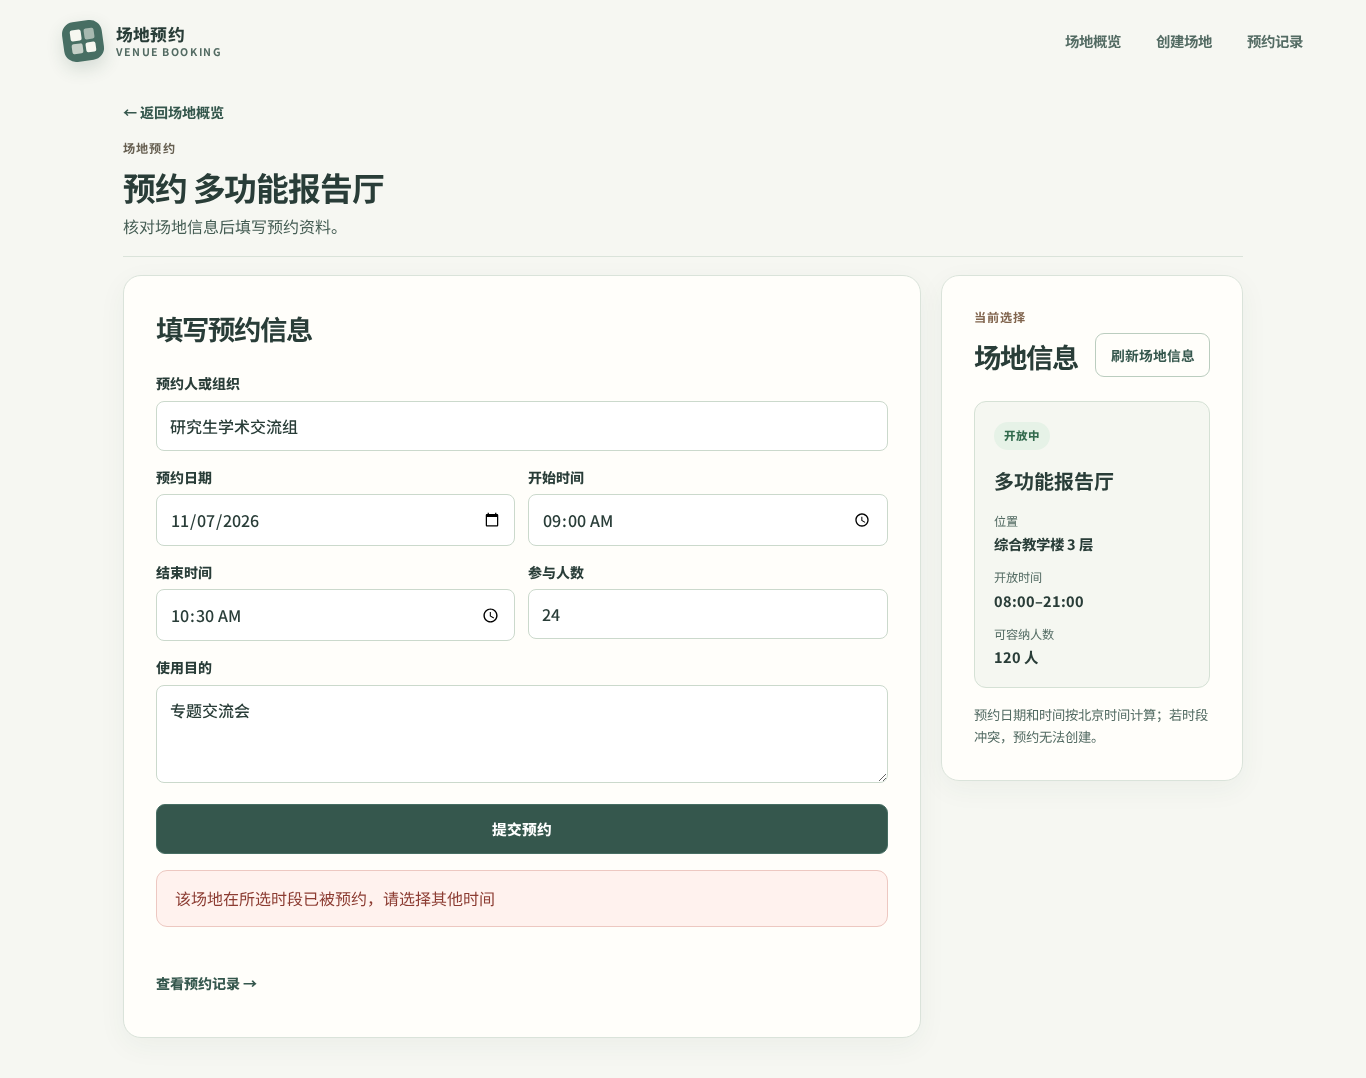
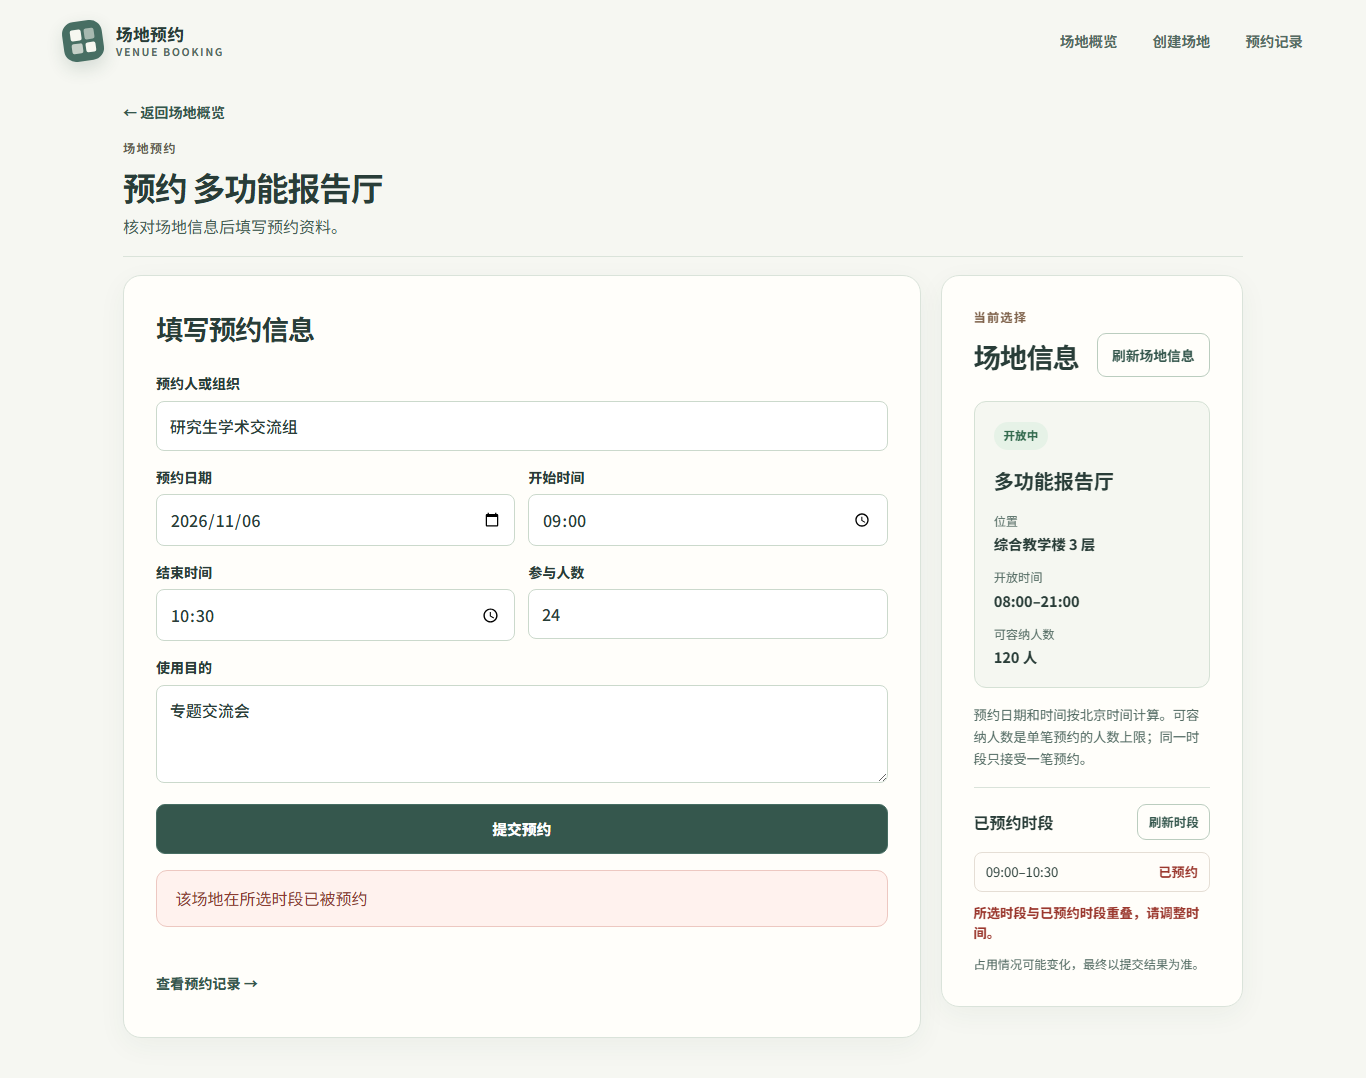
feat: 显示场地已预约时段与约满提示

diff --git a/frontend/src/pages/BookingPage.tsx b/frontend/src/pages/BookingPage.tsx
@@ -1,3 +1,7 @@
+import { useEffect, useState } from 'react'
+import { bookedSlotsForDate, isFullyBooked, overlapsBookedSlot } from '../availability'
+import type { BookedSlot } from '../availability'
+import { bookingApi } from '../api/booking'
 import { ActionFeedback } from '../components/ActionFeedback'
 import { ReservationForm } from '../components/ReservationForm'
 import type { ReservationDraft } from '../reservationDraft'
@@ -17,6 +21,48 @@ interface BookingPageProps {
 }
 
 export function BookingPage({ venue, draft, onDraftChange, loadingVenues, venueError, isSubmitting, actionError, successMessage, onRefreshVenues, onCreate }: BookingPageProps) {
+  const [snapshot, setSnapshot] = useState<{ venueId: number; date: string; slots: BookedSlot[] } | null>(null)
+  const [loadingSlots, setLoadingSlots] = useState(false)
+  const [slotError, setSlotError] = useState(false)
+  const [slotReloadKey, setSlotReloadKey] = useState(0)
+  const date = draft.reservationDate
+
+  useEffect(() => {
+    if (!venue || venue.status !== 'OPEN' || !date) {
+      setSnapshot(null)
+      setLoadingSlots(false)
+      setSlotError(false)
+      return
+    }
+
+    let active = true
+    const venueId = venue.id
+    setSnapshot(null)
+    setLoadingSlots(true)
+    setSlotError(false)
+    bookingApi.listReservations()
+      .then((reservations) => {
+        if (active) setSnapshot({ venueId, date, slots: bookedSlotsForDate(reservations, venueId, date) })
+      })
+      .catch(() => {
+        if (active) setSlotError(true)
+      })
+      .finally(() => {
+        if (active) setLoadingSlots(false)
+      })
+    return () => { active = false }
+  }, [venue?.id, venue?.status, date, slotReloadKey])
+
+  const slots = snapshot?.venueId === venue?.id && snapshot?.date === date ? snapshot.slots : null
+  const fullyBooked = Boolean(venue && slots && isFullyBooked(slots, venue.open_time, venue.close_time))
+  const selectedSlotBooked = slots ? overlapsBookedSlot(slots, draft.startTime, draft.endTime) : false
+
+  async function handleCreate(input: CreateReservationInput): Promise<boolean> {
+    const created = await onCreate(input)
+    if (!created) setSlotReloadKey((current) => current + 1)
+    return created
+  }
+
   return (
     <div className="booking-page">
       <div className="subpage-banner">
@@ -48,7 +94,42 @@ export function BookingPage({ venue, draft, onDraftChange, loadingVenues, venueE
             </div>
           ) : loadingVenues ? <p className="empty-state">正在加载场地信息…</p> : null}
           {venueError && <p role="alert" className="notice error aside-error">{venueError}</p>}
-          <p className="booking-aside-note">预约日期和时间按北京时间计算；若时段冲突，预约无法创建。</p>
+          <p className="booking-aside-note">预约日期和时间按北京时间计算。可容纳人数是单笔预约的人数上限；同一时段只接受一笔预约。</p>
+          {venue?.status === 'OPEN' && (
+            <section className="booking-availability" aria-labelledby="booking-availability-heading">
+              <div className="booking-availability-heading">
+                <h3 id="booking-availability-heading">已预约时段</h3>
+                {date && (
+                  <button type="button" className="secondary" disabled={loadingSlots} onClick={() => setSlotReloadKey((current) => current + 1)}>
+                    刷新时段
+                  </button>
+                )}
+              </div>
+              {!date ? (
+                <p>选择预约日期后查看该场地的占用时段。</p>
+              ) : loadingSlots ? (
+                <p role="status">正在查询已预约时段…</p>
+              ) : slotError ? (
+                <p>暂时无法查询已预约时段，请刷新重试；仍可提交预约，由后端确认。</p>
+              ) : slots ? (
+                <>
+                  {fullyBooked ? <p className="booking-availability-full">该日期开放时段已约满。</p>
+                    : slots.length === 0 ? <p>该日期暂无已预约时段。</p> : null}
+                  {slots.length > 0 && (
+                    <ul className="booked-slots">
+                      {slots.map((slot, index) => (
+                        <li key={`${slot.startTime}-${slot.endTime}-${index}`}>
+                          <span>{slot.startTime}–{slot.endTime}</span><span>已预约</span>
+                        </li>
+                      ))}
+                    </ul>
+                  )}
+                  {selectedSlotBooked && <p className="booking-availability-conflict" role="status">所选时段与已预约时段重叠，请调整时间。</p>}
+                  <p className="booking-availability-note">占用情况可能变化，最终以提交结果为准。</p>
+                </>
+              ) : null}
+            </section>
+          )}
         </aside>
 
         <section className="panel booking-panel" aria-labelledby="booking-heading">
@@ -67,7 +148,7 @@ export function BookingPage({ venue, draft, onDraftChange, loadingVenues, venueE
                 onDraftChange={onDraftChange}
                 isSubmitting={isSubmitting}
                 isUnavailable={loadingVenues || Boolean(venueError)}
-                onCreate={onCreate}
+                onCreate={handleCreate}
               />
             </>
           ) : loadingVenues ? (

diff --git a/frontend/src/App.test.tsx b/frontend/src/App.test.tsx
@@ -55,6 +55,86 @@ afterEach(() => {
 })
 
 describe('场地预约页面', () => {
+  it('按日期显示已预约时段，提示重叠但允许相邻时段', async () => {
+    const user = userEvent.setup()
+    const cancelled = {
+      ...reservation,
+      id: 13,
+      start_time: '11:00',
+      end_time: '12:00',
+      status: 'CANCELLED',
+      cancelled_at: '2030-10-01T11:00:00+08:00',
+    }
+    vi.stubGlobal('fetch', vi.fn(async (input: RequestInfo | URL) => {
+      if (String(input) === '/api/venues') return json([venue])
+      if (String(input) === '/api/reservations') return json([reservation, cancelled])
+      throw new Error(`Unexpected request: ${String(input)}`)
+    }))
+
+    render(<App />)
+    const form = await screen.findByRole('form', { name: '创建预约' })
+    await user.type(within(form).getByLabelText('预约日期'), '2030-10-30')
+    expect(await screen.findByText('10:00–11:00')).toBeInTheDocument()
+    expect(screen.queryByText('11:00–12:00')).not.toBeInTheDocument()
+
+    await user.type(within(form).getByLabelText('开始时间'), '10:30')
+    await user.type(within(form).getByLabelText('结束时间'), '11:30')
+    expect(screen.getByText('所选时段与已预约时段重叠，请调整时间。')).toBeInTheDocument()
+    expect(within(form).getByRole('button', { name: '提交预约' })).toBeEnabled()
+
+    await user.clear(within(form).getByLabelText('开始时间'))
+    await user.type(within(form).getByLabelText('开始时间'), '11:00')
+    expect(screen.queryByText('所选时段与已预约时段重叠，请调整时间。')).not.toBeInTheDocument()
+  })
+
+  it('整段开放时间被预约时显示已约满；查询失败仍可由后端判定预约', async () => {
+    const user = userEvent.setup()
+    let listCalls = 0
+    vi.stubGlobal('fetch', vi.fn(async (input: RequestInfo | URL) => {
+      if (String(input) === '/api/venues') return json([venue])
+      if (String(input) === '/api/reservations') {
+        listCalls += 1
+        if (listCalls === 2) throw new Error('查询失败')
+        return json(listCalls === 3 ? [{ ...reservation, start_time: '08:00', end_time: '22:00' }] : [])
+      }
+      throw new Error(`Unexpected request: ${String(input)}`)
+    }))
+
+    render(<App />)
+    const form = await screen.findByRole('form', { name: '创建预约' })
+    await user.type(within(form).getByLabelText('预约日期'), '2030-10-30')
+    expect(await screen.findByText('暂时无法查询已预约时段，请刷新重试；仍可提交预约，由后端确认。')).toBeInTheDocument()
+    expect(within(form).getByRole('button', { name: '提交预约' })).toBeEnabled()
+    await user.click(screen.getByRole('button', { name: '刷新时段' }))
+    expect(await screen.findByText('该日期开放时段已约满。')).toBeInTheDocument()
+  })
+
+  it('切换日期后忽略先前日期晚到的占用结果', async () => {
+    let resolveOld!: (response: Response) => void
+    const oldList = new Promise<Response>((resolve) => { resolveOld = resolve })
+    let listCalls = 0
+    vi.stubGlobal('fetch', vi.fn(async (input: RequestInfo | URL) => {
+      if (String(input) === '/api/venues') return json([venue])
+      if (String(input) === '/api/reservations') {
+        listCalls += 1
+        return listCalls === 2 ? oldList : json([])
+      }
+      throw new Error(`Unexpected request: ${String(input)}`)
+    }))
+
+    render(<App />)
+    const form = await screen.findByRole('form', { name: '创建预约' })
+    const dateInput = within(form).getByLabelText('预约日期')
+    fireEvent.change(dateInput, { target: { value: '2030-10-30' } })
+    expect(await screen.findByText('正在查询已预约时段…')).toBeInTheDocument()
+    fireEvent.change(dateInput, { target: { value: '2030-10-31' } })
+    expect(await screen.findByText('该日期暂无已预约时段。')).toBeInTheDocument()
+
+    await act(async () => { resolveOld(json([reservation])); await oldList })
+    expect(dateInput).toHaveValue('2030-10-31')
+    expect(screen.queryByText('10:00–11:00')).not.toBeInTheDocument()
+  })
+
   it('加载场地后可创建预约并显示服务端返回的记录', async () => {
     window.history.replaceState(null, '', '/#/')
     const user = userEvent.setup()
@@ -131,7 +211,7 @@ describe('场地预约页面', () => {
     await user.click(screen.getByRole('link', { name: '← 返回场地概览' }))
     await user.click(screen.getByRole('link', { name: '预约记录' }))
     expect(await screen.findByText('另一位用户')).toBeInTheDocument()
-    expect(listCalls).toBe(2)
+    expect(listCalls).toBe(3)
   })
 
   it('显示后端返回的冲突错误，不伪造预约成功', async () => {

diff --git a/frontend/src/availability.test.ts b/frontend/src/availability.test.ts
@@ -1,0 +1,51 @@
+import { describe, expect, it } from 'vitest'
+import { bookedSlotsForDate, isFullyBooked, overlapsBookedSlot } from './availability'
+import type { Reservation } from './types'
+
+const reservation: Reservation = {
+  id: 1,
+  venue_id: 1,
+  booked_by: '测试小组',
+  reservation_date: '2030-10-30',
+  start_time: '10:00',
+  end_time: '11:00',
+  attendee_count: 3,
+  purpose: '小组活动',
+  status: 'ACTIVE',
+  created_at: '2030-10-01T10:00:00+08:00',
+  cancelled_at: null,
+}
+
+describe('预约时段展示', () => {
+  it('仅使用所选场地和日期的有效预约，并按开始时间排序', () => {
+    const slots = bookedSlotsForDate([
+      { ...reservation, id: 2, start_time: '12:00', end_time: '13:00' },
+      { ...reservation, id: 3, status: 'CANCELLED', cancelled_at: '2030-10-01T11:00:00+08:00' },
+      { ...reservation, id: 4, venue_id: 2 },
+      { ...reservation, id: 5, reservation_date: '2030-10-31' },
+      reservation,
+    ], 1, '2030-10-30')
+    expect(slots).toEqual([
+      { startTime: '10:00', endTime: '11:00' },
+      { startTime: '12:00', endTime: '13:00' },
+    ])
+  })
+
+  it('相邻时段不冲突，真正重叠才提示占用', () => {
+    const slots = [{ startTime: '10:00', endTime: '11:00' }]
+    expect(overlapsBookedSlot(slots, '09:00', '10:00')).toBe(false)
+    expect(overlapsBookedSlot(slots, '11:00', '12:00')).toBe(false)
+    expect(overlapsBookedSlot(slots, '10:30', '11:30')).toBe(true)
+  })
+
+  it('只有预约覆盖整个开放时段时才显示已约满', () => {
+    expect(isFullyBooked([
+      { startTime: '08:00', endTime: '10:00' },
+      { startTime: '10:00', endTime: '22:00' },
+    ], '08:00', '22:00')).toBe(true)
+    expect(isFullyBooked([
+      { startTime: '08:00', endTime: '10:00' },
+      { startTime: '10:30', endTime: '22:00' },
+    ], '08:00', '22:00')).toBe(false)
+  })
+})

diff --git a/frontend/src/styles.css b/frontend/src/styles.css
@@ -166,6 +166,16 @@ button.secondary:hover:not(:disabled) { border-color: var(--accent); background:
 .booking-venue-card dt { color: var(--ink-muted); font-size: 0.76rem; }
 .booking-venue-card dd { margin: 0.2rem 0 0; color: var(--ink); font-size: 0.9rem; font-weight: 750; overflow-wrap: anywhere; }
 .booking-aside-note { margin: 1rem 0 0; color: var(--ink-muted); font-size: 0.83rem; line-height: 1.65; }
+.booking-availability { margin-top: 1.1rem; padding-top: 1rem; border-top: 1px solid var(--border); }
+.booking-availability-heading { display: flex; align-items: center; justify-content: space-between; flex-wrap: wrap; gap: 0.5rem; }
+.booking-availability h3 { margin: 0; color: var(--ink); font-size: 1rem; }
+.booking-availability-heading button { min-height: 36px; padding: 0.4rem 0.65rem; font-size: 0.78rem; }
+.booking-availability p { margin: 0.7rem 0 0; color: var(--ink-muted); font-size: 0.83rem; line-height: 1.55; }
+.booking-availability .booking-availability-full, .booking-availability .booking-availability-conflict { color: #9b382e; font-weight: 750; }
+.booking-availability .booking-availability-note { font-size: 0.76rem; }
+.booked-slots { display: grid; gap: 0.45rem; margin: 0.75rem 0 0; padding: 0; list-style: none; }
+.booked-slots li { display: flex; justify-content: space-between; gap: 0.6rem; padding: 0.55rem 0.7rem; border: 1px solid #e5ded5; border-radius: 8px; background: #fffdf9; color: var(--ink); font-size: 0.82rem; font-variant-numeric: tabular-nums; }
+.booked-slots li span:last-child { color: #9b382e; font-weight: 700; white-space: nowrap; }
 .aside-error { margin-top: 1rem; }
 .form-notice { margin-bottom: 1rem; }
 

diff --git a/frontend/src/availability.ts b/frontend/src/availability.ts
@@ -1,0 +1,30 @@
+import type { Reservation } from './types'
+
+export interface BookedSlot {
+  startTime: string
+  endTime: string
+}
+
+export function bookedSlotsForDate(reservations: Reservation[], venueId: number, date: string): BookedSlot[] {
+  return reservations
+    .filter((reservation) => reservation.venue_id === venueId
+      && reservation.reservation_date === date
+      && reservation.status === 'ACTIVE')
+    .map(({ start_time, end_time }) => ({ startTime: start_time, endTime: end_time }))
+    .sort((left, right) => left.startTime.localeCompare(right.startTime))
+}
+
+export function overlapsBookedSlot(slots: BookedSlot[], startTime: string, endTime: string): boolean {
+  if (!startTime || !endTime || startTime >= endTime) return false
+  return slots.some((slot) => slot.startTime < endTime && slot.endTime > startTime)
+}
+
+export function isFullyBooked(slots: BookedSlot[], openTime: string, closeTime: string): boolean {
+  let coveredUntil = openTime
+  for (const slot of slots) {
+    if (slot.startTime > coveredUntil) return false
+    if (slot.endTime > coveredUntil) coveredUntil = slot.endTime
+    if (coveredUntil >= closeTime) return true
+  }
+  return false
+}

diff --git a/frontend/src/validation/reservation.ts b/frontend/src/validation/reservation.ts
@@ -1,4 +1,5 @@
 import type { CreateReservationInput, Venue } from '../types'
+import { shanghaiDateTime } from '../shanghaiTime'
 
 export interface ValidationIssue {
   field: keyof CreateReservationInput
@@ -11,19 +12,6 @@ function isCalendarDate(value: string): boolean {
   if (!/^\d{4}-\d{2}-\d{2}$/.test(value)) return false
   const timestamp = Date.parse(`${value}T00:00:00Z`)
   return Number.isFinite(timestamp) && new Date(timestamp).toISOString().slice(0, 10) === value
-}
-
-function shanghaiDateTime(now: Date): { date: string; time: string } {
-  const parts = new Intl.DateTimeFormat('en-GB', {
-    timeZone: 'Asia/Shanghai',
-    year: 'numeric', month: '2-digit', day: '2-digit',
-    hour: '2-digit', minute: '2-digit', hourCycle: 'h23',
-  }).formatToParts(now)
-  const values = Object.fromEntries(parts.map(({ type, value }) => [type, value]))
-  return {
-    date: `${values.year}-${values.month}-${values.day}`,
-    time: `${values.hour}:${values.minute}`,
-  }
 }
 
 export function validateReservation(

diff --git a/frontend/src/shanghaiTime.ts b/frontend/src/shanghaiTime.ts
@@ -1,0 +1,12 @@
+export function shanghaiDateTime(now: Date): { date: string; time: string } {
+  const parts = new Intl.DateTimeFormat('en-GB', {
+    timeZone: 'Asia/Shanghai',
+    year: 'numeric', month: '2-digit', day: '2-digit',
+    hour: '2-digit', minute: '2-digit', hourCycle: 'h23',
+  }).formatToParts(now)
+  const values = Object.fromEntries(parts.map(({ type, value }) => [type, value]))
+  return {
+    date: `${values.year}-${values.month}-${values.day}`,
+    time: `${values.hour}:${values.minute}`,
+  }
+}
